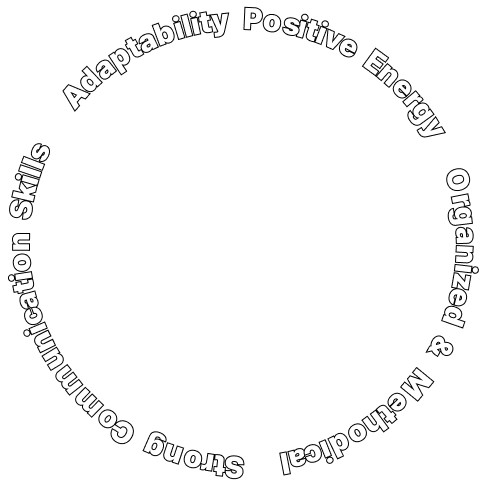
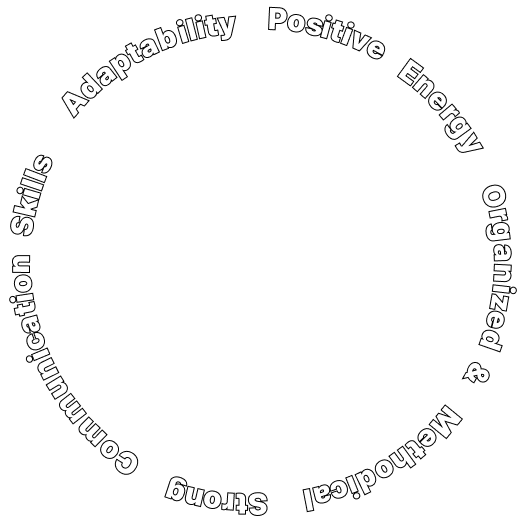
파일수정

diff --git a/index.css b/index.css
@@ -85,14 +85,8 @@
 
 .about .about-title .title-deco .light1 {
   position: absolute;
-  top: 0;
-  right: -30px;
-}
-
-.about .about-title .title-deco .light2 {
-  position: absolute;
-  top: 0;
-  left: 50px;
+  top: -30px;
+  left: 36px;
 }
 
 .about .about-title .about-title-profile {
@@ -111,7 +105,7 @@
 }
 
 .about .about-img {
-  width: 721px;
+  width: 718px;
   height: 500px;
   background: url(./images/about-img.png) no-repeat 50% / contain, #fff;
   position: relative;
@@ -120,16 +114,9 @@
 .about .about-img #keyword {
   position: absolute;
   top: -60px;
-  left: 14px;
-  width: 100%;
-}
-
-.about .about-img img {
-  width: 445px;
-  height: 415px;
-  margin: 0 auto;
-  display: flex;
-  justify-content: center;
+  left: 40px;
+  width: 90%;
+  animation: rotate360 14s linear infinite;
 }
 
 /* project */
@@ -304,6 +291,12 @@
   background-color: var(--color-white);
   line-height: 541px;
   grid-column: 5/17;
+
+  transition: transform 0.1s ease;
+  display: inline-block;
+  will-change: transform;
+  position: relative;
+  -webkit-text-stroke: 1px #000;
 }
 
 .skill-tool .skill-list {
@@ -332,10 +325,6 @@
 
 .skill-tool .skill-list .skill-check .check-list {
   margin-bottom: var(--spacing-sm);
-}
-
-.skill-tool .skill-list .list-box .list-box-txt {
-  /* grid-template-columns: repeat(2, 1fr); */
 }
 
 .skill-tool .skill-list .tool-list-box {
@@ -412,6 +401,15 @@
 }
 .JS-JQ p {
   width: 760px;
+}
+.check-list p {
+  transition: 0.3s;
+}
+.check-list:first-child p {
+  background-color: #ffcd38;
+}
+.check-list:nth-child(7) p {
+  background-color: #ffcd38;
 }
 /* 
 .miniflower {

diff --git a/index.js b/index.js
@@ -207,8 +207,7 @@ const topHt = function () {
       'top': '0',  // top을 0으로 설정
       height: '50px',
       opacity:1,
-      backgroundColor: 'var(--color-white)',
-      color: 'var(--color-black)'
+      border: '1px solid #000',
     });
     $('.deco-wrapper').css({
       height: '50px', backgroundColor: 'var(--color-black)'
@@ -267,10 +266,12 @@ $('.check-box').on('click', function () {
 
   // 모든 check-box와 list-box-txt 비활성화
   $('.check-box').removeClass('active');
+  $('.check-list p').css({ backgroundColor: 'transparent'})
 
   // 현재 클릭된 요소만 활성화 (토글 동작 가능)
   if (!isActive) {
     $(this).addClass('active');
+    $(this).siblings('p').css({backgroundColor: '#ffcd38'});
   }
 });
 
@@ -293,13 +294,12 @@ $('.check-box').each(function (index) {
 });
 
 // 마우스 이벤트
-
 const movingTxt = function (e) {
   let txtX = e.clientX;
   let txtY = e.clientY;
 
   // 마우스 위치에 따라 텍스트 위치와 그림자 설정
-  $('.main-title, .footer-title').css({
+  $('.main-title, .footer-title, .skill-tool-title .title').css({
     left: 0 - txtX / 50,
     top: 0 - txtY / 200,
     textShadow: `${-22 + txtX / 100}px ${txtY / 100}px 0px #000`,

diff --git a/assets/styles/layout.css b/assets/styles/layout.css
@@ -115,9 +115,22 @@ footer .contact .contact-left p {
   line-height: 120px;
   border-right: none;
   background-color: var(--color-white);
+  position: relative;
 }
 footer .contact .contact-left p a {
   display: block;
+}
+footer .contact .contact-left p a:hover {
+  background-color: #ffcd38;
+}
+footer .contact .contact-left p:last-child::after {
+content: "";
+position: absolute;
+top: 58px; left: -11px;
+rotate: 18deg;
+width: 106%; height: 0.5px;
+background-color: #000;
+
 }
 footer .contact .contact-left p:nth-of-type(1) {
   border-bottom: none;

diff --git a/index.html b/index.html
@@ -119,7 +119,8 @@
         </ul>
       </div>
       <div class="about-img">
-        <div id="keyword"></div>
+        <!-- <div ></div> -->
+         <img id="keyword" src="./images/keyword.png" alt="키워드">
       </div>
     </section>
 
